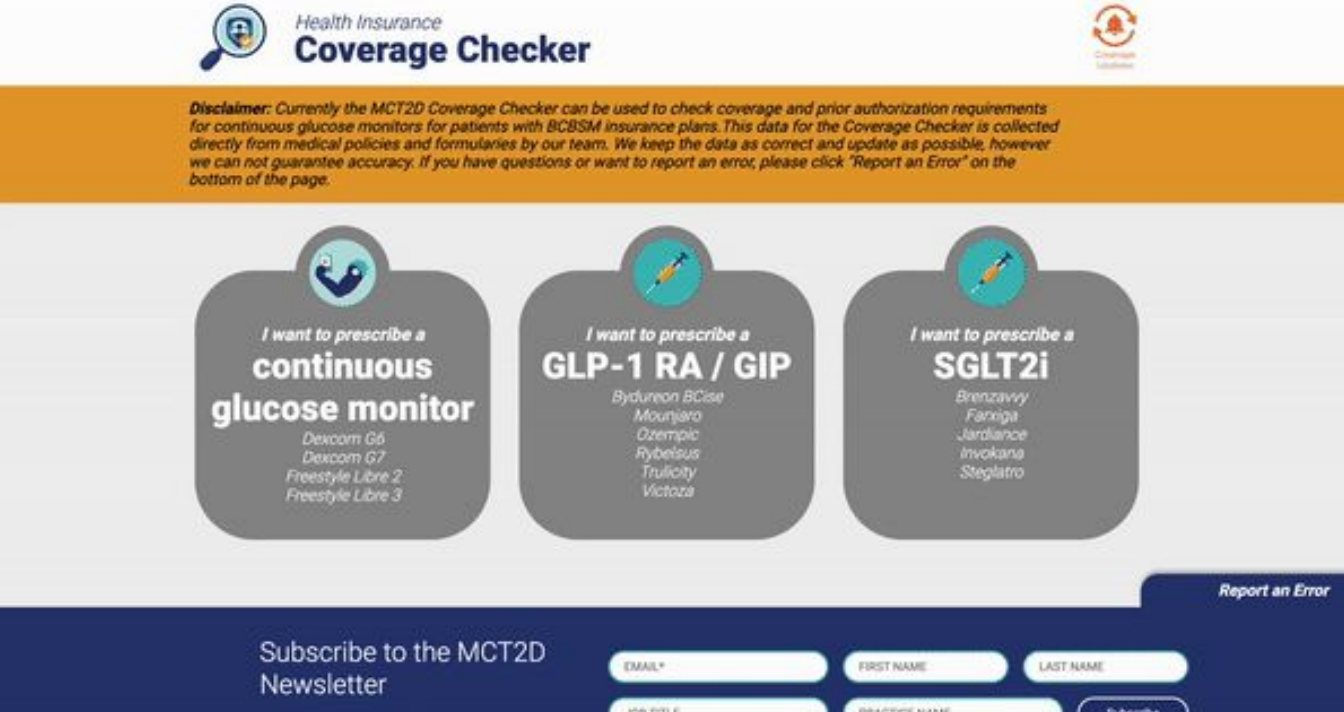
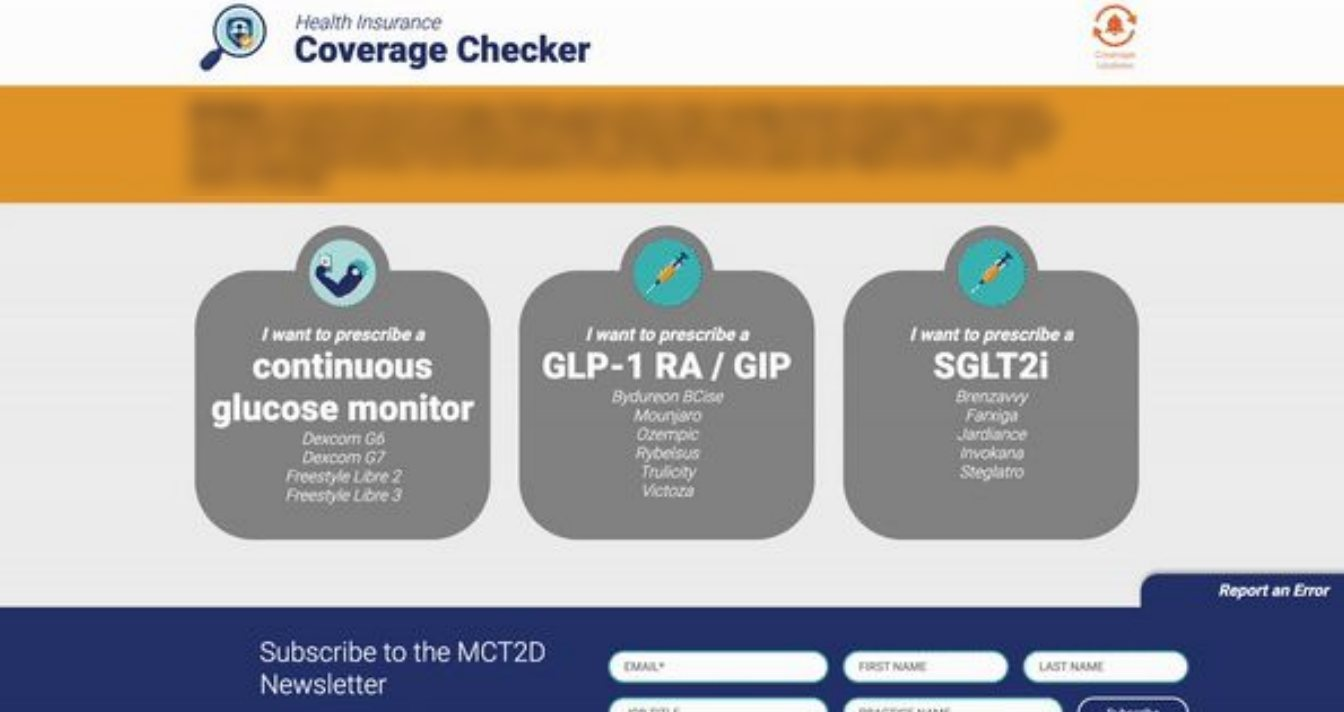
Add Coverage Quest to the Coverage Checker case study
Adds a Coverage Quest section with a photo (name badge blurred), links
Noa's LinkedIn posts, and keeps the funding health plan unnamed,
including blurring the plan name in the tool screenshot's disclaimer.

Claude-Session: https://claude.ai/code/session_01N1cWYRYEdsCRMALDGd6rCB

Changed region(s): [[0.125, 0.1236, 0.8125, 0.2781]]

diff --git a/case-studies/coverage-checker/index.html b/case-studies/coverage-checker/index.html
@@ -101,7 +101,7 @@
         <ul class="cs-points">
           <li><strong>Listen to the people doing the work.</strong> We analyzed nearly 1,000 physician-submitted case summaries and needs assessments, plus transcripts of meetings with practice teams. Prior authorization surfaced again and again, along with a request for an "easy button."</li>
           <li><strong>Learn from every side of the transaction.</strong> We spent more than 30 hours in one-on-one calls with payers, public plan medical leads, and diabetes drug and device representatives to understand where coverage criteria live and how often they change.</li>
-          <li><strong>Make the problem playable.</strong> In "Coverage Quest," a game-style workshop exercise, practice teams mapped their coverage barriers and opportunities for improvement.</li>
+          <li><strong>Make the problem playable.</strong> In Coverage Quest, a fantasy-themed mapping game described below, care teams walked a patient through the coverage process step by step and marked every place it broke down.</li>
         </ul>
 
         <blockquote class="cs-quote">
@@ -121,6 +121,27 @@
           <img src="img/coverage-guide-v1-to-v90.jpg" alt="Slide showing the MCT2D coverage guide, a color-coded table of medication coverage by Michigan payer, evolving from version 1 in November 2021 to version 90 in October 2024, beside a tall stack of paper." width="1600" height="900" loading="lazy" />
           <figcaption>From version 1 to version 90. The paper guide proved the need and became the content model for the interactive tool.</figcaption>
         </figure>
+
+        <h3>Coverage Quest: process mapping as a game</h3>
+        <p>Process mapping is a standard quality improvement tool, but it can feel like homework. So Larrea Young and I turned it into a game. At a 45-minute session during an MCT2D regional meeting <span class="guess">in 2023</span>, care teams from across the state set out to get a fictional patient covered for their prescription. Each game board, designed in-house, introduced a character with diagnoses, lab results, and current medications. Sticky notes served as game pieces:</p>
+        <ul class="cs-points">
+          <li><strong>Blue: the path.</strong> The steps a clinic usually takes to get a medication covered.</li>
+          <li><strong>Orange: the obstacles.</strong> Barriers, setbacks, and challenges along the way.</li>
+          <li><strong>Yellow: the magic.</strong> Best practices, tips, tools, and resources that helped.</li>
+        </ul>
+        <p>Players added MCT2D tool stickers wherever one of our resources could help. Once their character could finally start the prescription, each team placed a "Magic Wand" sticker on the one step they most wanted to fix. Fantasy music played in the background, and the facilitators wore wizard hats.</p>
+        <p>Many participants were skeptical at first, and most left with discussion points and tools to bring back to their practices. <strong>We collected more than 200 completed game boards</strong>, a map of where coverage breaks down in real Michigan clinics and where our tools were already in use. That map shaped what the interactive Coverage Checker needed to do.</p>
+
+        <blockquote class="cs-quote">
+          <p>"Sometimes people need a shift in their environment and to do something unexpected."</p>
+          <cite>— Noa Kim, on designing Coverage Quest</cite>
+        </blockquote>
+
+        <figure class="cs-figure">
+          <img src="img/coverage-quest.jpg" alt="Larrea Young and Noa Kim smile in a conference room set up with tables and chairs, both wearing tall blue felt wizard hats decorated with the MCT2D logo, a map of Michigan, and pictures of glucose monitors and insulin pens." width="1200" height="1200" loading="lazy" />
+          <figcaption>Larrea Young and I, the Coverage Quest game masters, in our MCT2D wizard hats.</figcaption>
+        </figure>
+        <span class="todo">Before this goes live: please get Larrea's OK to show this photo. I blurred their name badge. Also, was Coverage Quest in 2023, and did the 200+ boards directly shape Coverage Checker's features? I inferred that link.</span>
 
         <h3>Then build the easy button, with clinicians</h3>
         <p>In early 2024, a small group of MCT2D clinicians met with us four times in focus groups to co-design and test an interactive version. Between sessions, the design team ran agile design sprints and brought back prototypes for clinicians to try and critique. We launched a minimum viable product in May 2024. In a few clicks, a care team member picks what they want to prescribe and the patient's plan, and the tool returns:</p>
@@ -162,7 +183,7 @@
         <p>The work has limits. Coverage Checker includes the most common Michigan plans but not pharmacy carve-outs, and it can't fix drug shortages, high-deductible plans, or slow-moving DME ordering systems. Next, MCT2D planned a mobile "Coverage Checker Lite," broader plan coverage through a pharmacy benefit manager data partnership, crowdsourced data quality checks, and coverage tracking for diabetes prevention programs.</p>
         <span class="todo">Did the mobile app ship, and when? Any newer numbers for searches, plans covered, time saved per PA, or fewer denials?</span>
         <p>The work was peer reviewed in <em>Annals of Family Medicine</em> (2025) and presented at the IHI National Forum on Quality Improvement in Health Care (2024).</p>
-        <p class="cs-credit">This work was made possible by Blue Cross Blue Shield of Michigan's support of the Michigan Collaborative for Type 2 Diabetes, a statewide collaborative quality initiative.</p>
+        <p class="cs-credit">This work was made possible by a health plan's funding of the Michigan Collaborative for Type 2 Diabetes, a statewide collaborative quality initiative.</p>
       </div></div>
     </section>
 
@@ -175,6 +196,7 @@
           <ul>
             <li><span class="guess">Created the November 2021 coverage guide</span> with Heidi Diez, PharmD, MCT2D's co-director and clinical pharmacy lead.</li>
             <li>Synthesized nearly 1,000 case summaries, needs assessments, and meeting transcripts into the case for an interactive tool.</li>
+            <li>Co-created Coverage Quest with Larrea Young, a process-mapping game that gathered 200+ maps of coverage barriers from care teams.</li>
             <li>Ran 30+ hours of one-on-one research calls with payers, public plan medical leads, and manufacturer representatives.</li>
             <li><span class="guess">Led the clinician focus groups and design sprints</span> and scoped the features for the May 2024 launch.</li>
             <li><span class="guess">Set up the quarterly formulary and medical policy review</span> that keeps the tool accurate.</li>
@@ -186,8 +208,8 @@
 
         <h3>Further reading</h3>
         <ul class="cs-refs">
-          <li><strong>Kim N</strong>, Cardinal S, Gabison J, Oshman L, Rau J, Reiss J, Young L, Diez HL. Coverage Checker: a web-based tool to navigate diabetes coverage and prior authorization. <em>Annals of Family Medicine</em>. 2025;23(4):378. <a href="https://doi.org/10.1370/afm.240633" target="_blank" rel="noopener">doi:10.1370/afm.240633</a></li>
-          <li><strong>Kim N</strong>, Young L. Coverage Checker: applying human-centered design to develop a tool for insurance coverage navigation. Session C17, IHI National Forum; December 10, 2024.</li>
+          <li><strong>Kim N</strong>, Cardinal S, Gabison J, Oshman L, Rau J, Reiss J, Young L, Diez HL. Coverage Checker: a web-based tool to navigate diabetes coverage and prior authorization. <em>Annals of Family Medicine</em>. 2025;23(4):378. <a href="https://doi.org/10.1370/afm.240633" target="_blank" rel="noopener">doi:10.1370/afm.240633</a> · <a href="https://www.linkedin.com/feed/update/urn:li:activity:7369472499241205762/" target="_blank" rel="noopener">My post announcing the paper on LinkedIn</a></li>
+          <li><strong>Kim N</strong>, Young L. Coverage Checker: applying human-centered design to develop a tool for insurance coverage navigation. Session C17, IHI National Forum; December 10, 2024. <a href="https://www.linkedin.com/feed/update/urn:li:activity:7274595531597783040/" target="_blank" rel="noopener">My post about the session on LinkedIn</a></li>
           <li>Oshman L, Bhomia N, Diez HL, … <strong>Kim N</strong>, et al. The Michigan Collaborative for Type 2 Diabetes (MCT2D): development and implementation of a statewide collaborative quality initiative. <em>BMC Health Services Research</em>. 2024. <a href="https://doi.org/10.1186/s12913-024-11520-z" target="_blank" rel="noopener">doi:10.1186/s12913-024-11520-z</a></li>
           <li>Try the tool: <a href="https://www.mct2d.org/resource-library/mct2d-coverage-checker-1-0" target="_blank" rel="noopener">MCT2D Coverage Checker</a></li>
         </ul>
